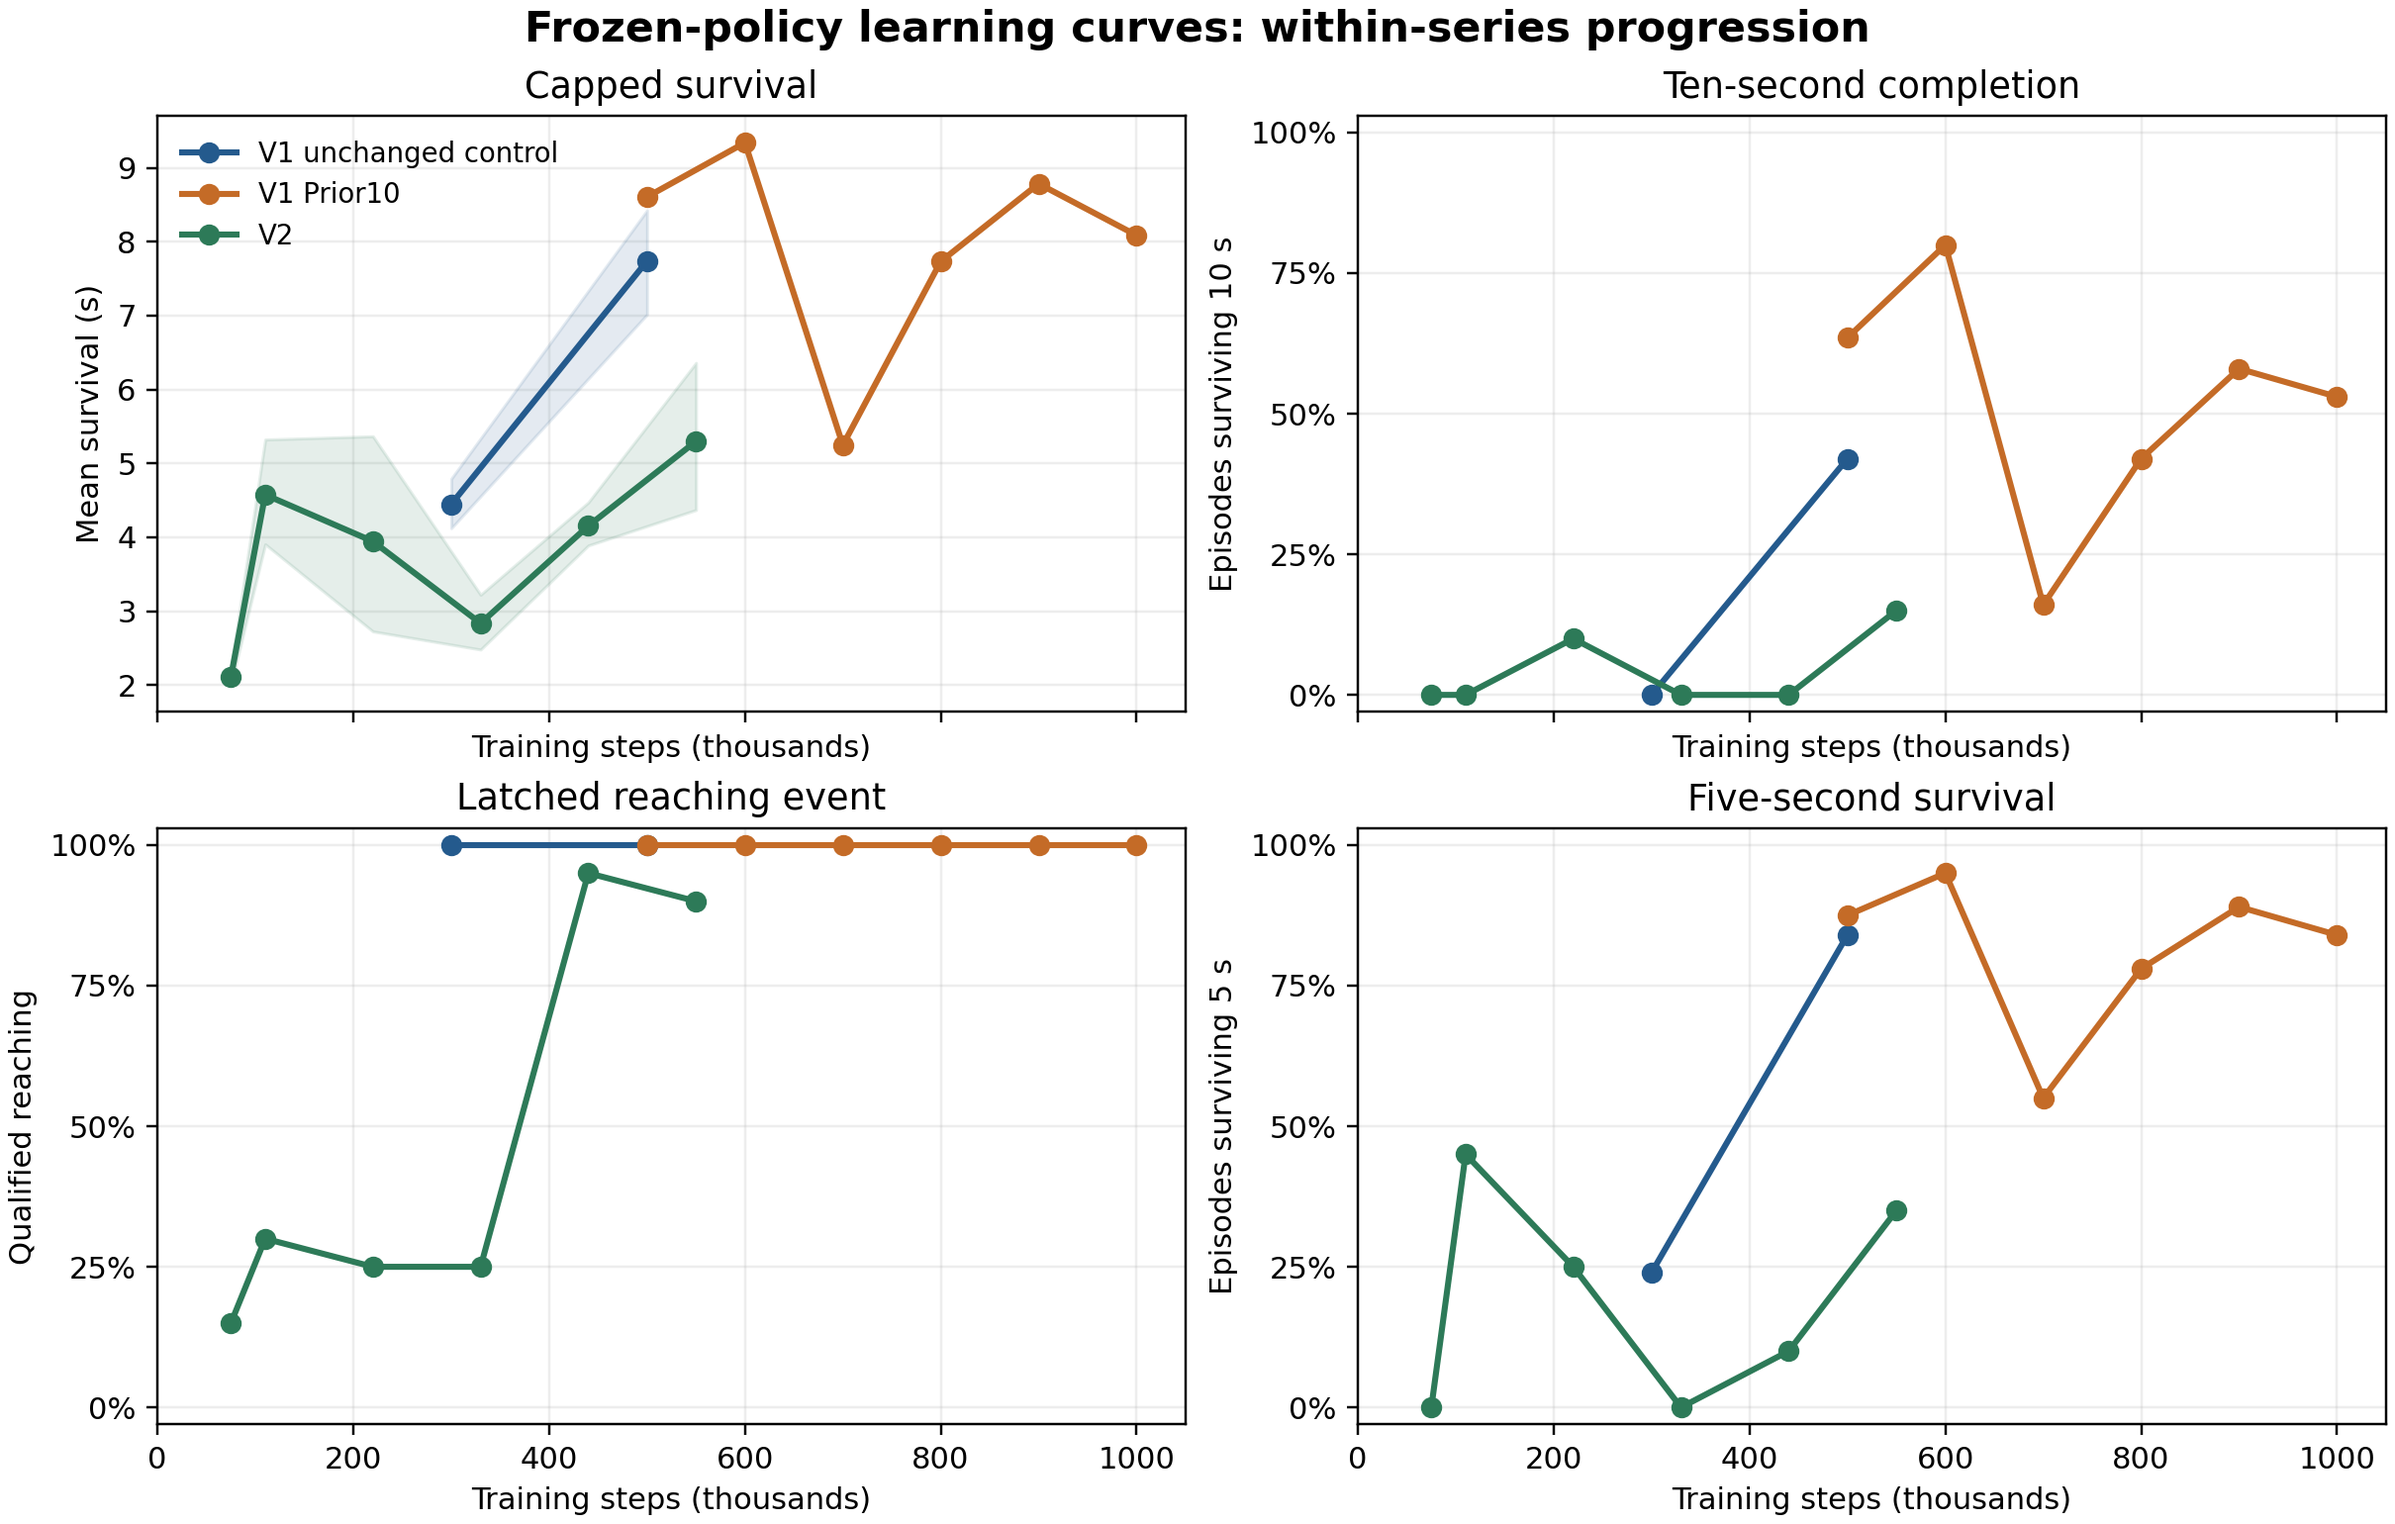
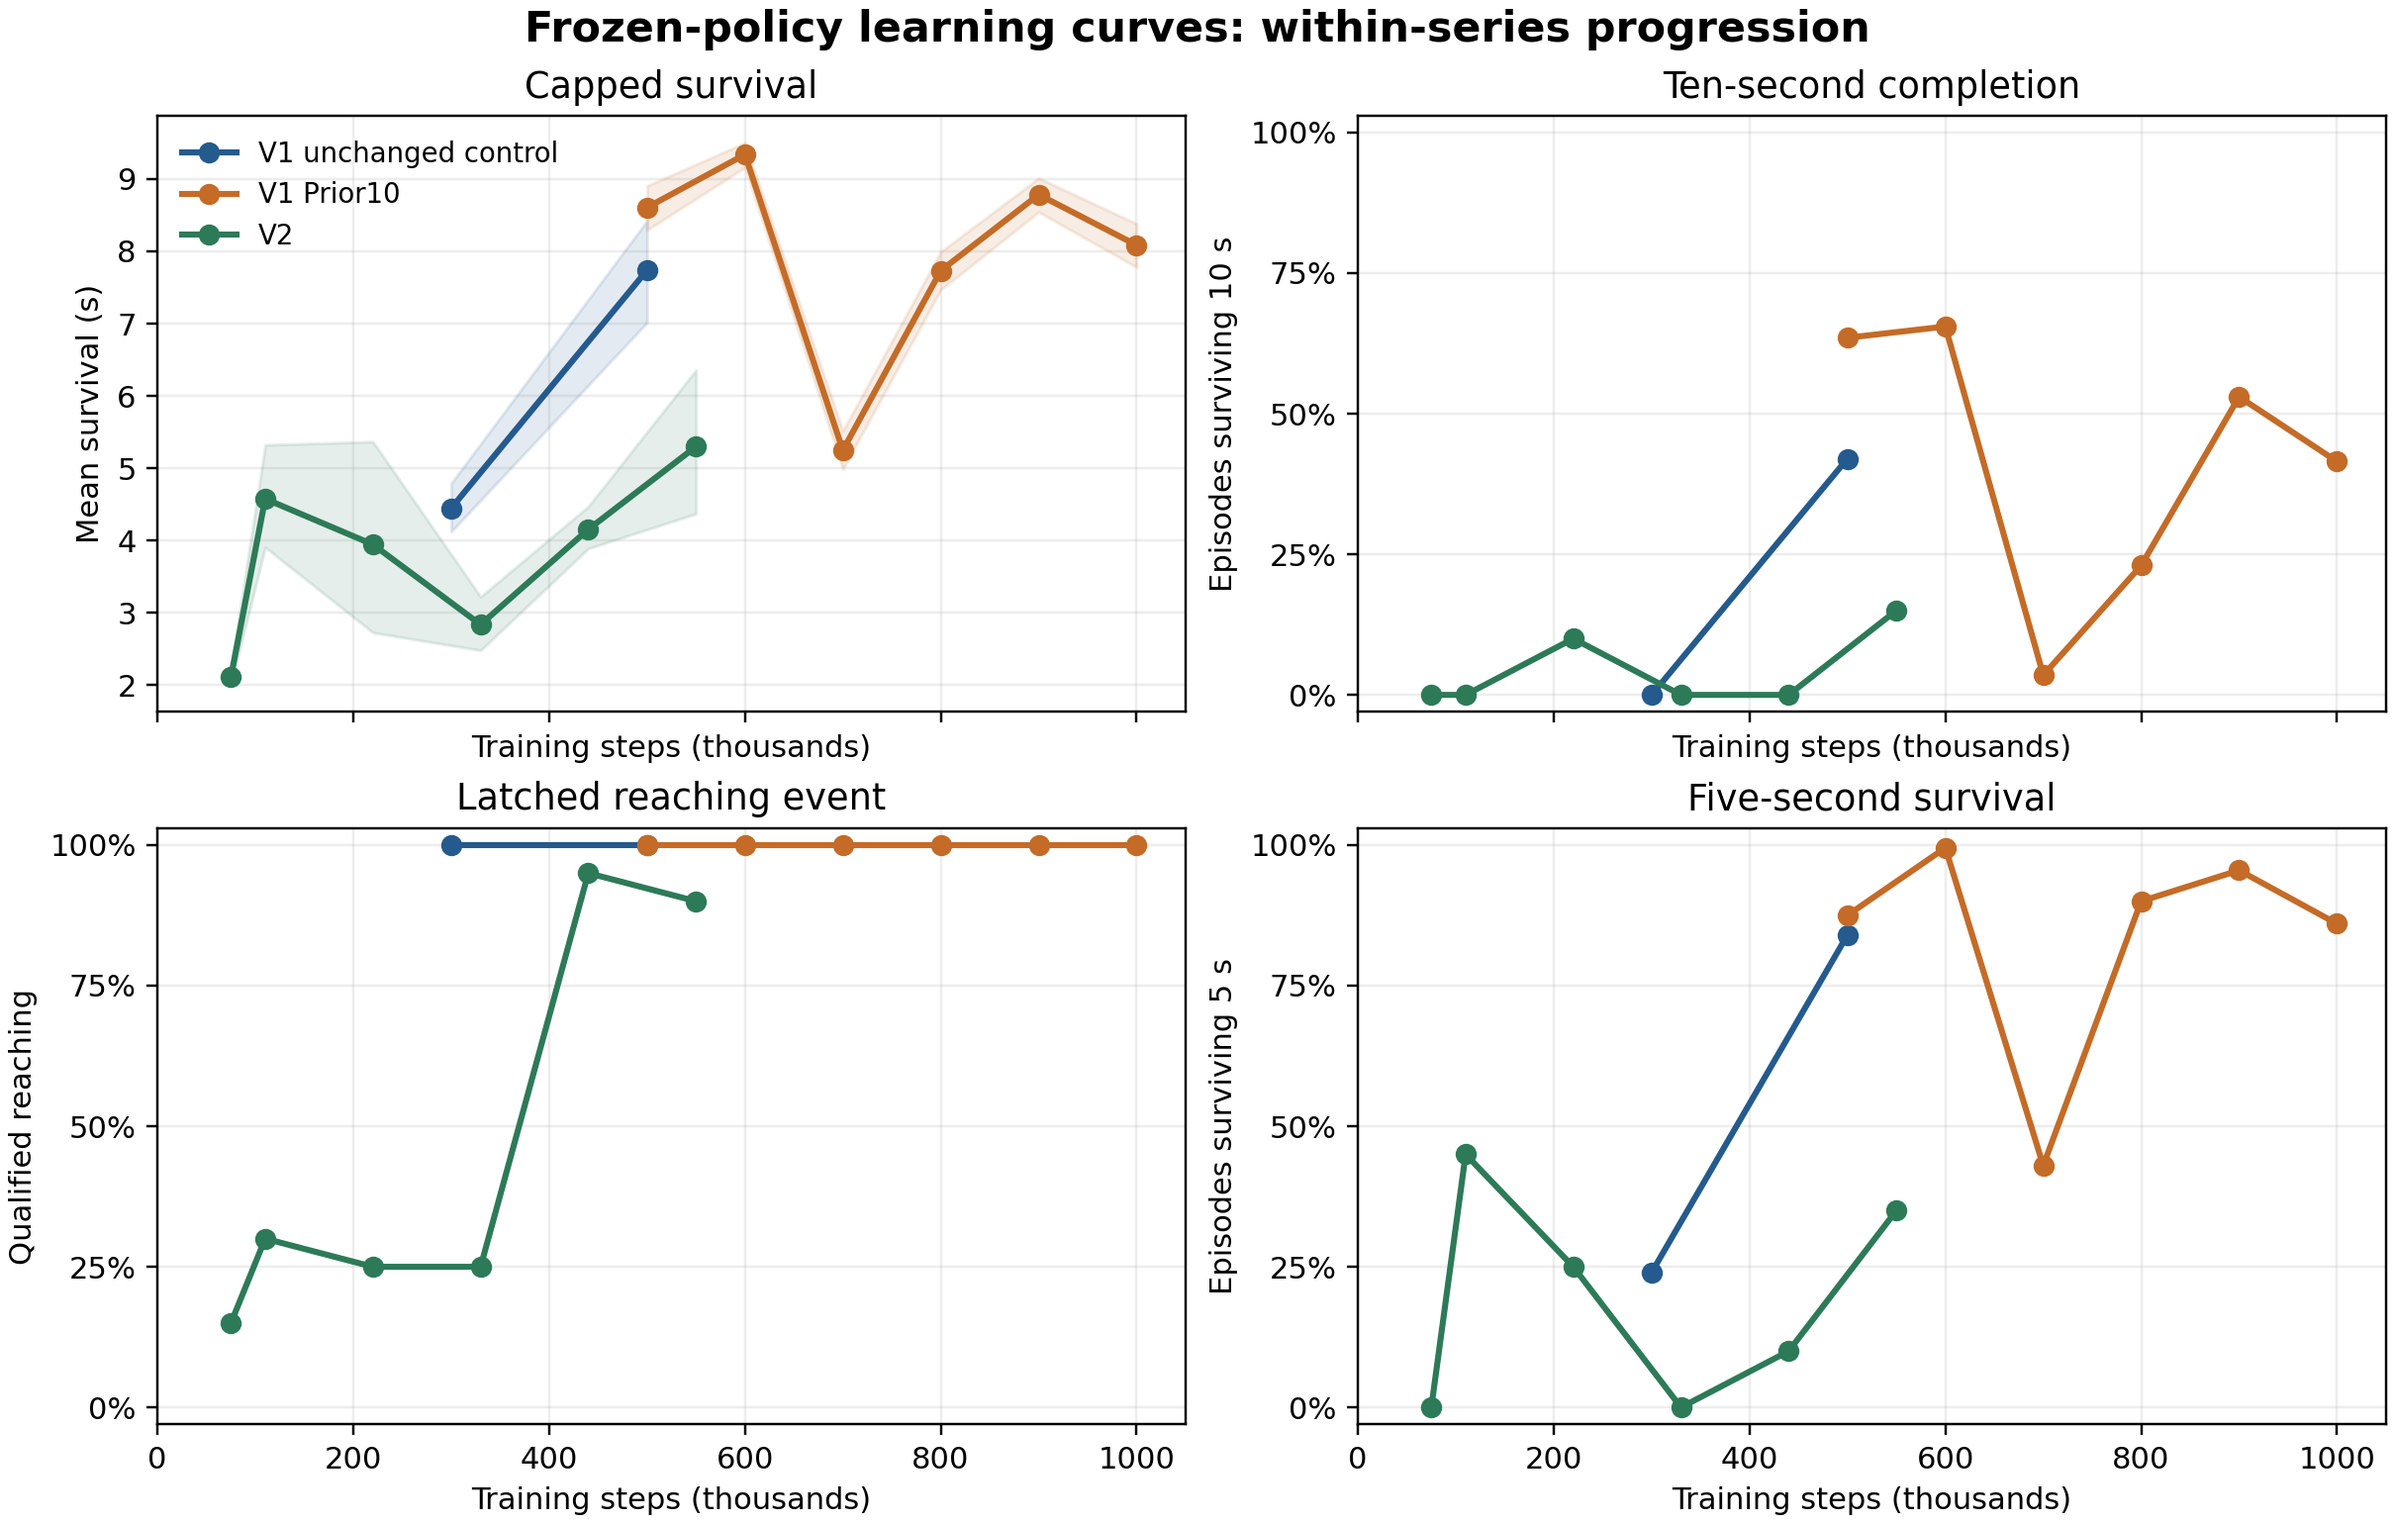
fix public release evidence integrity

diff --git a/docs/release_checklist.md b/docs/release_checklist.md
@@ -6,6 +6,8 @@ Status: documentation and lightweight reproducibility pass for review. No merge,
 - [x] Research setup, scientific results, mechanism interpretation, V1/V2 comparison, reproducibility boundary, and limitations documented.
 - [x] Existing sanitized result tables and figures retained; no fabricated frames, trajectories, intervals, or new empirical claims added.
 - [x] Added sanitized source data: `analysis/learning_curves.csv`, `analysis/mechanism_summary.json`, and `analysis/video_manifest.json`.
+- [x] Corrected Prior10 600k-1M survival rates and restored the authoritative mean-survival intervals; regenerated the learning-curve figure.
+- [x] Added public artifact hashes and evidence identifiers in `analysis/public_provenance.json`.
 - [x] Added generated figures and scripts: `assets/figures/learning-curves.png`, `assets/figures/mechanistic-findings.png`, `scripts/plot_learning_curves.py`, and `scripts/plot_mechanistic_findings.py`.
 - [x] Added two V2 550k videos with checkpoint, seed, and outcome labels; one timeout after qualified reaching and one failure.
 - [x] Asset provenance and third-party notices retained under `assets/ergocub/`.
@@ -15,7 +17,7 @@ Status: documentation and lightweight reproducibility pass for review. No merge,
 - [x] Validate all local Markdown targets and inspect the two MP4 files as present files; full stream validation is blocked because `imageio` and `ffprobe` are unavailable.
 - [x] Regenerate both new figures from the public sanitized data; both PNGs are non-empty and were visually inspected.
 - [x] Deliberately excluded checkpoints, replay buffers, raw trajectories, private reports, credentials, internal notes, machine-specific paths, and proprietary or unverified assets.
-- [x] Checked the public diff for private paths, credentials, raw experiment outputs, and unallowlisted large files; only the two selected MP4s are included.
+- [x] Checked the public diff for private paths, credentials, raw experiment outputs, and unallowlisted large files; only the two selected V2 MP4s are included as new media.
 - [x] Known limitations recorded, including one lineage, 10-second censoring, cohort differences, retrospective state selection, and absent hardware validation.
 
 ## My contributions

diff --git a/README.md b/README.md
@@ -53,11 +53,11 @@ These are verified results from one training lineage and separate frozen-policy
 cohorts. They are reported for empirical traceability, not as generalization,
 safety, or continual-learning claims.
 
-| Policy and total driver steps | Mean survival, capped at 10 s | Reached target | Survived to 10 s |
+| Policy/checkpoint and evaluation cohort | Mean survival, capped at 10 s | Reached target | Survived to 10 s |
 | --- | ---: | ---: | ---: |
-| DreamerV3, 300k | 4.45 s | 100% | 0% |
-| DreamerV3, 500k | 7.74 s | 100% | 42% |
-| Prior10, 500k | 8.43 s | 100% | 56% |
+| DreamerV3 control, 300k (n=50; seeds 50-99) | 4.45 s | 100% | 0% |
+| DreamerV3 control, 500k (n=50; seeds 50-99) | 7.74 s | 100% | 42% |
+| Prior10, 500k (n=50; seeds 50-99) | 8.43 s | 100% | 56% |
 
 The 200-episode Prior10 panel found a mean difference of +0.350 s with 95% CI
 [-0.068, 0.770], so an additional mean-survival benefit was not established.
@@ -99,8 +99,9 @@ The gallery includes [V2 seed 1002](assets/demo/v2-550k-seed-1002-timeout.mp4),
 a qualified reaching event followed by a 10-second timeout, and [V2 seed
 1007](assets/demo/v2-550k-seed-1007-fall.mp4), a fall at 4.642 s. Both are from
 the 550k frozen checkpoint; see [video_manifest.json](analysis/video_manifest.json)
-for the checkpoint hash, outcomes, and the warning that a latched event is not
-sustained balance.
+for the checkpoint hash, file hashes, outcomes, and the warning that a latched
+event is not sustained balance. Public artifact hashes and evidence identifiers
+are collected in [public_provenance.json](analysis/public_provenance.json).
 
 ## Reproducibility boundary
 

diff --git a/docs/reproducibility.md b/docs/reproducibility.md
@@ -28,4 +28,4 @@ Frozen-policy evaluation, E1 probes, E2 prediction, E3 ranking/feedback, E4 cont
 
 Fresh end-to-end training, independent training-seed uncertainty, and raw evaluation campaigns are not claimed. Full checkpoints, replay buffers, private logs, credentials, machine-specific paths, and unpublished trajectories are deliberately excluded.
 
-Do not put checkpoints, replay, logs, virtual environments, or datasets in this repository. Asset provenance is recorded in `assets/ergocub/provenance.json`; third-party notices remain in `assets/ergocub/NOTICE` and `assets/ergocub/LICENSE`.
+Do not put checkpoints, replay, logs, virtual environments, or datasets in this repository. Asset provenance is recorded in `assets/ergocub/provenance.json`; third-party notices remain in `assets/ergocub/NOTICE` and `assets/ergocub/LICENSE`. Public derived-artifact hashes and evidence identifiers are recorded in `analysis/public_provenance.json`.
